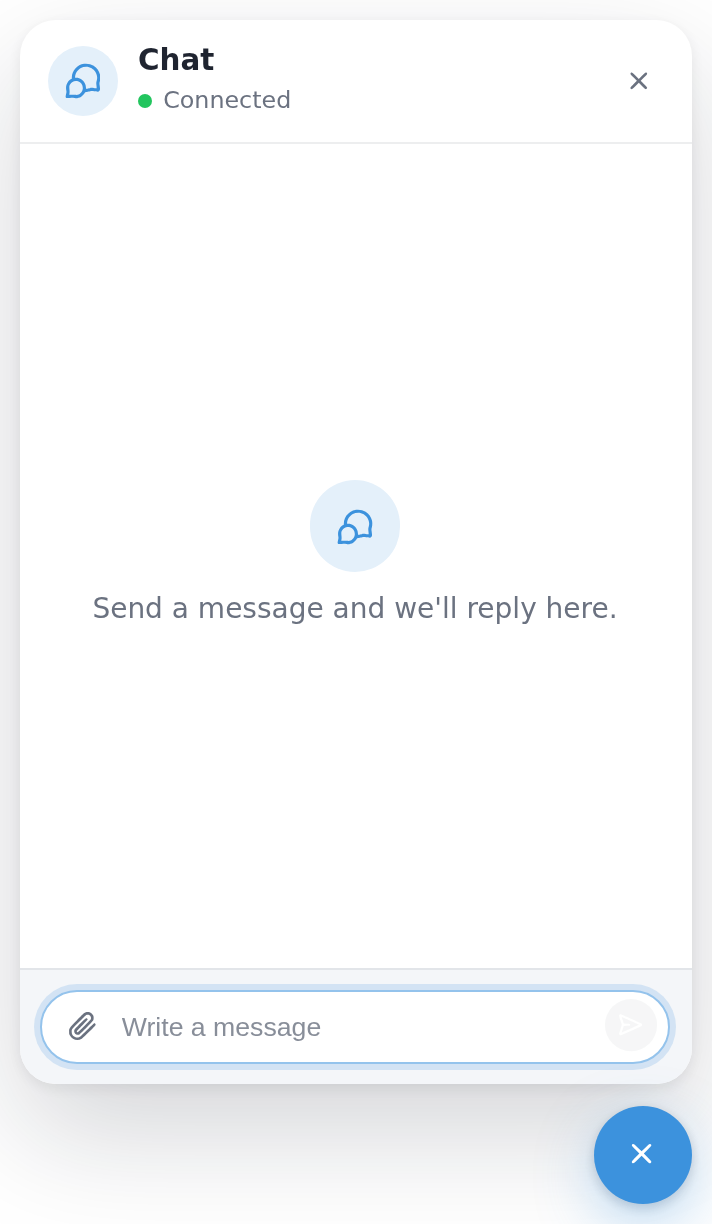
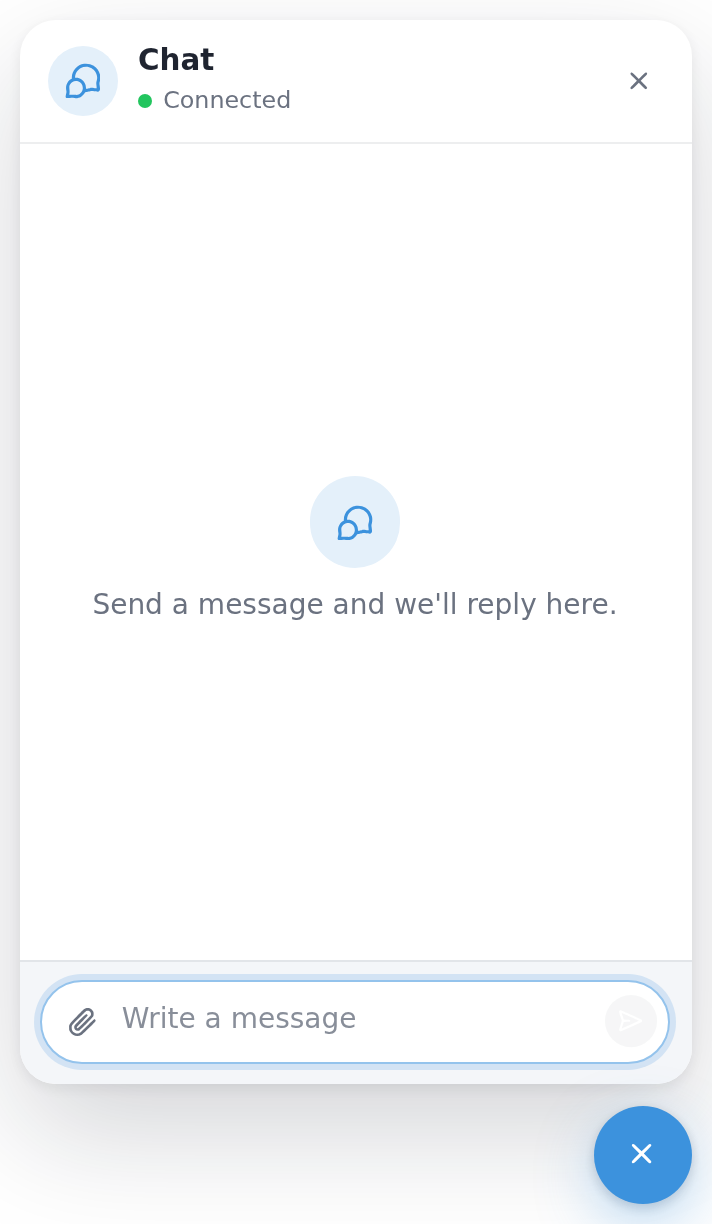
Make the webchat composer input inherit the widget font
The placeholder rendered in the browser's own UI font, which differs between
environments and left CI's screenshots a few hundred pixels off the truths.

diff --git a/components/src/webchat/WebChat.ts b/components/src/webchat/WebChat.ts
@@ -585,11 +585,14 @@ export class WebChat extends LitElement {
           color-mix(in srgb, var(--color-primary) 18%, transparent);
       }
 
+      /* inputs don't inherit the page font by default, and a browser's own
+         UI font differs between environments */
       .input {
         flex: 1;
         min-width: 0;
         border: 0;
         background: transparent;
+        font: inherit;
         color: var(--webchat-ink);
         padding: 0.5rem 0.25rem;
       }
